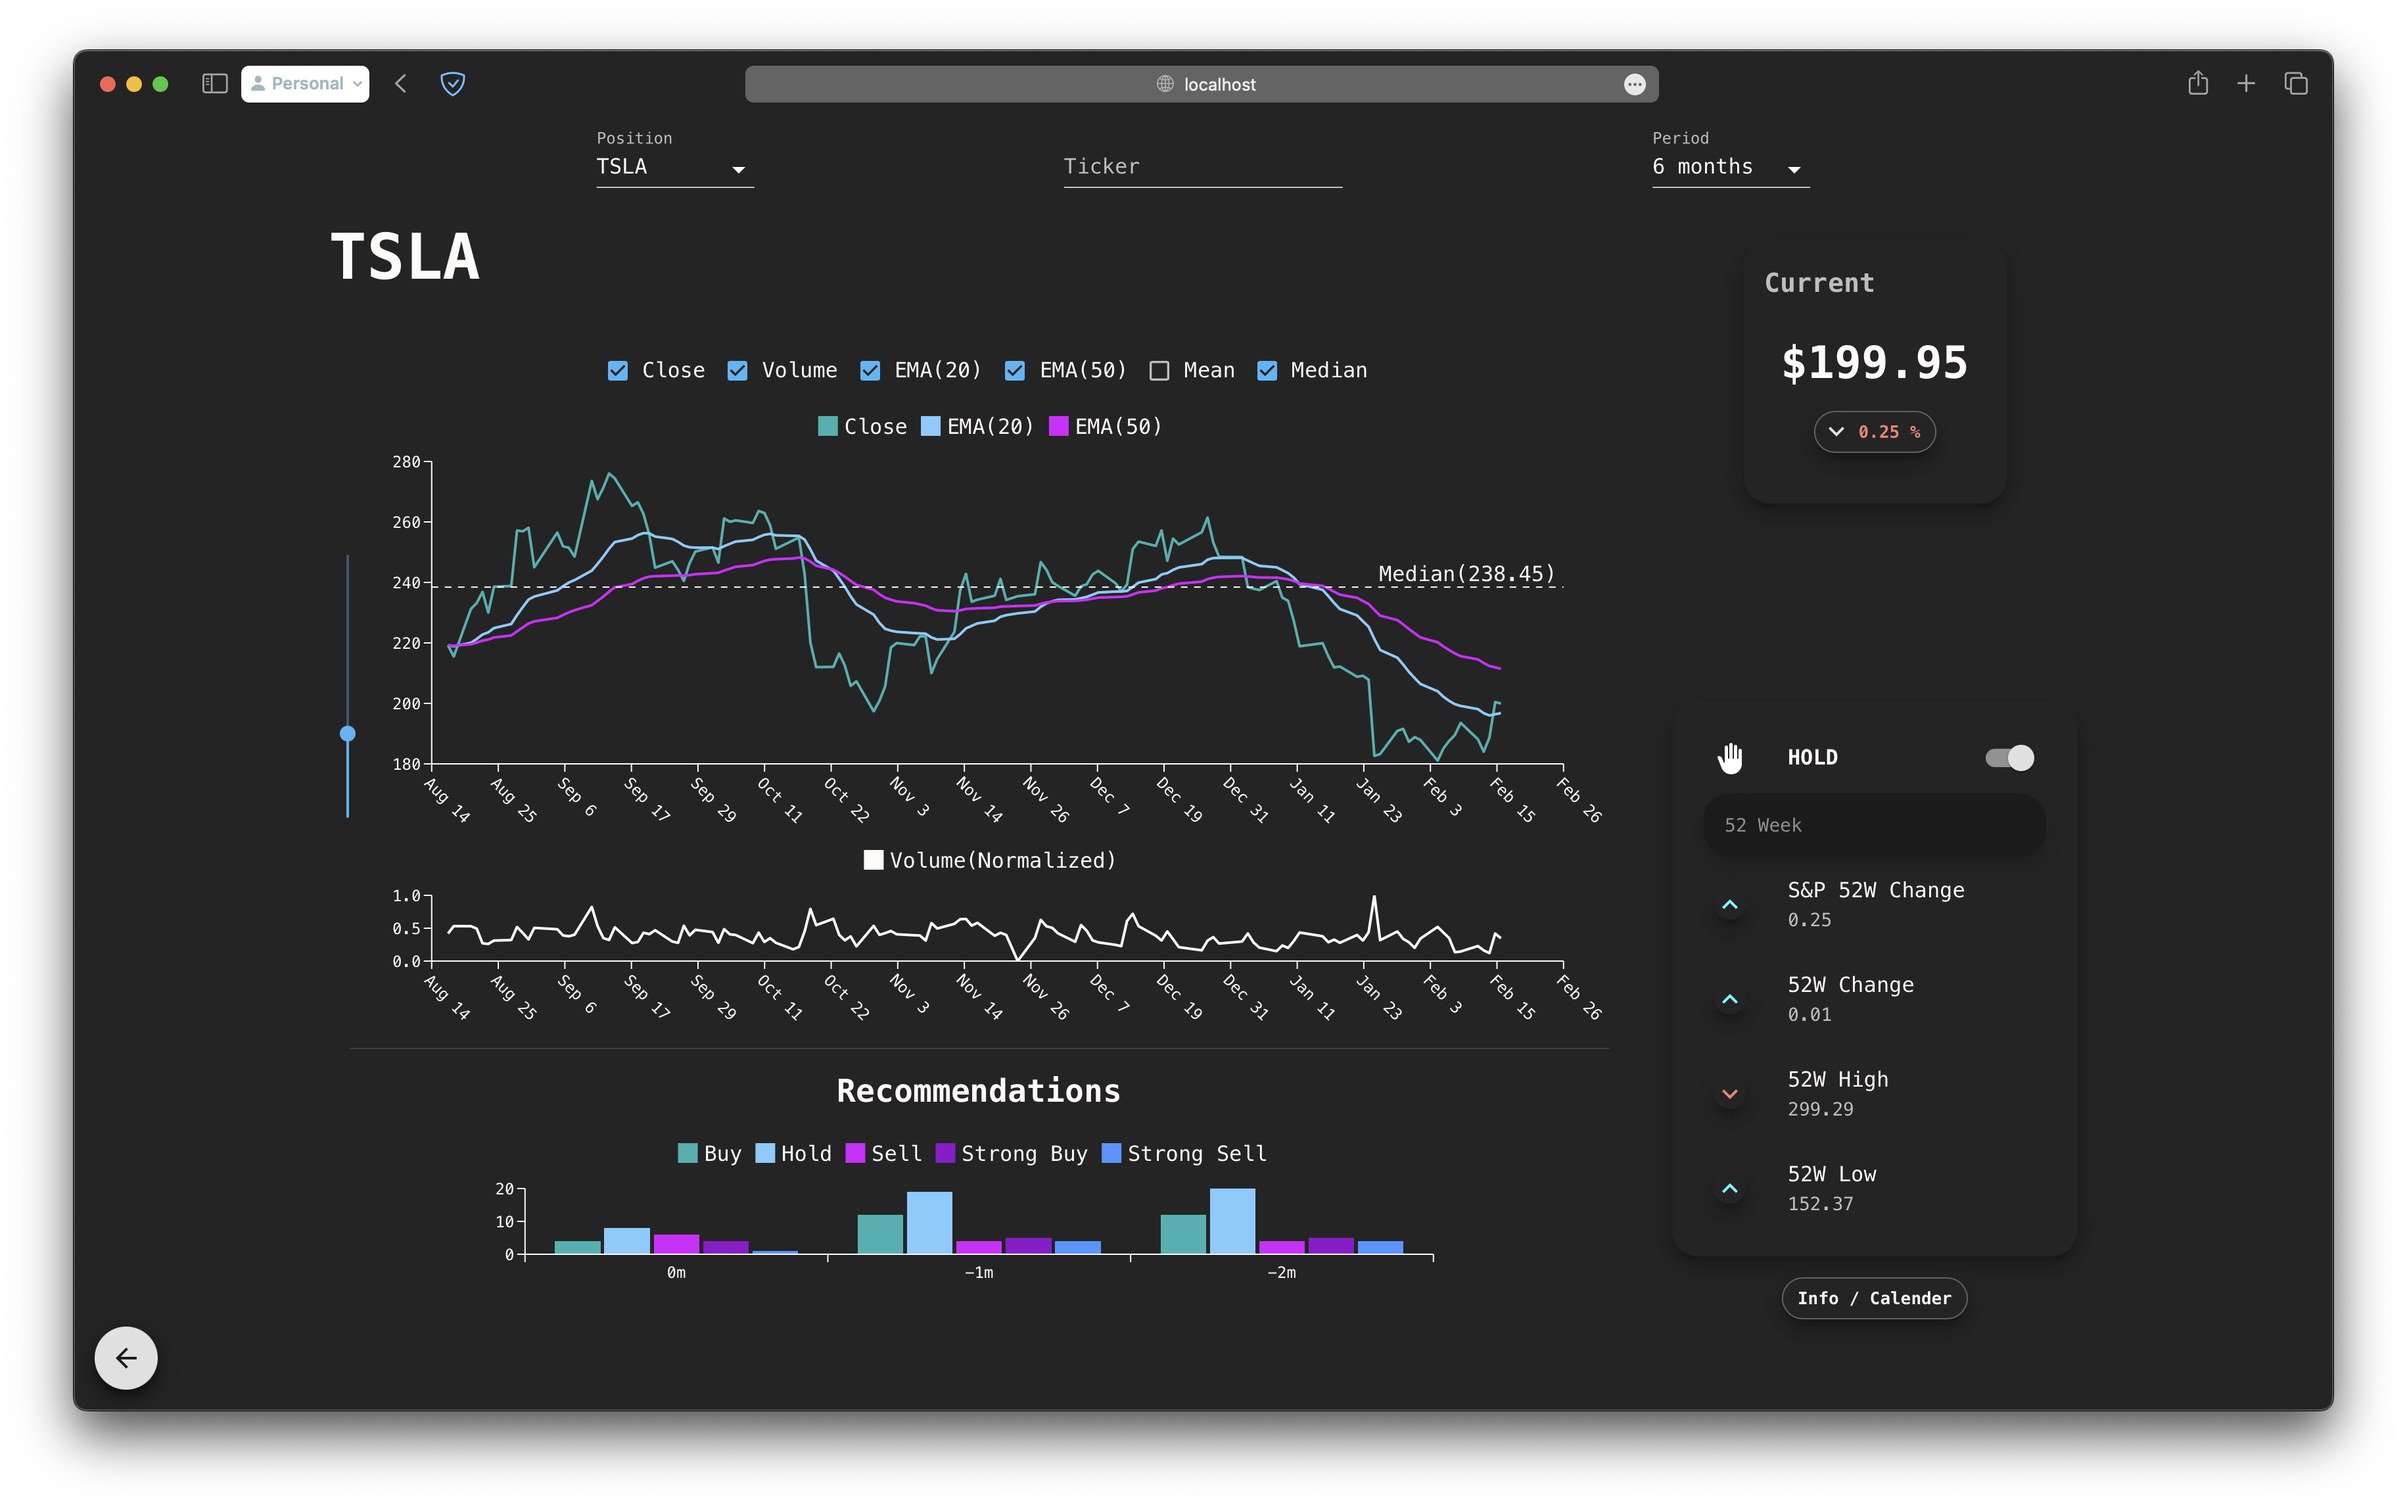
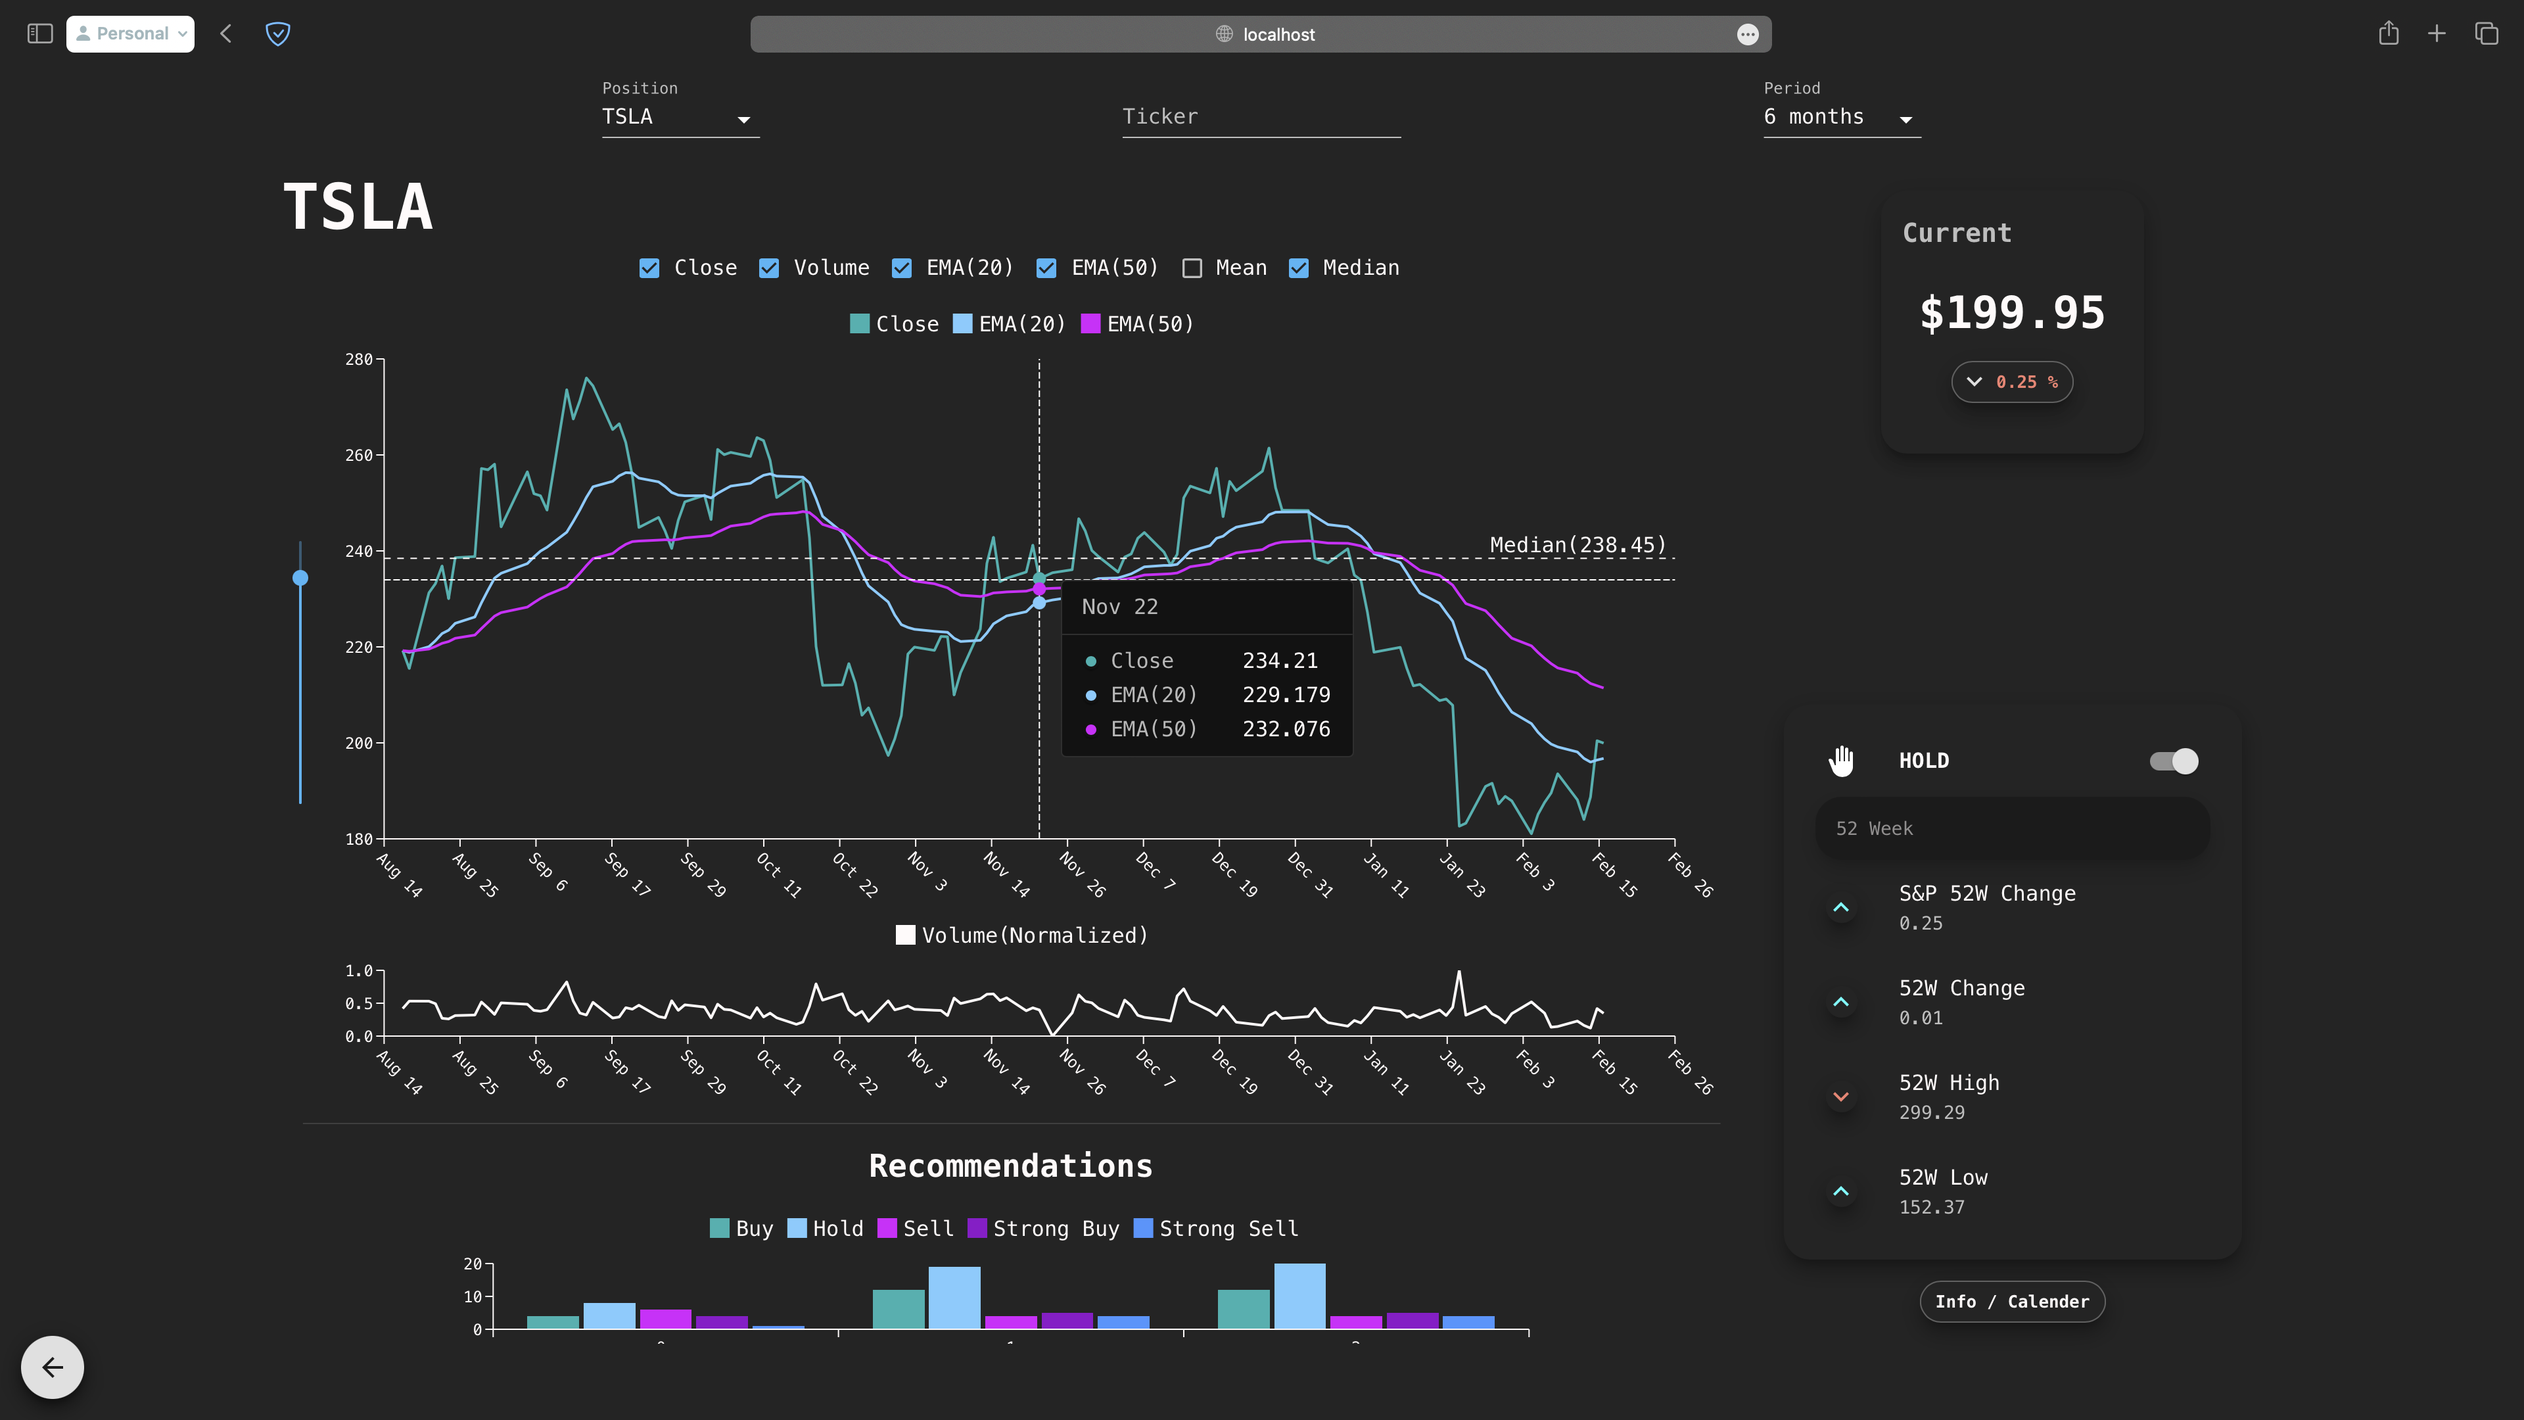
udpate screenshot

diff --git a/visual-board/src/components/Stock/StockHistoryChart.jsx b/visual-board/src/components/Stock/StockHistoryChart.jsx
@@ -133,7 +133,7 @@ function StockHistoryChart({ ticker, period }) {
           </Typography>
         </Grid>
 
-        <Grid item xs mt={5}>
+        <Grid item xs>
           <Grid container direction="row" alignItems="center" height="100%">
             <Grid item>
               <Box
